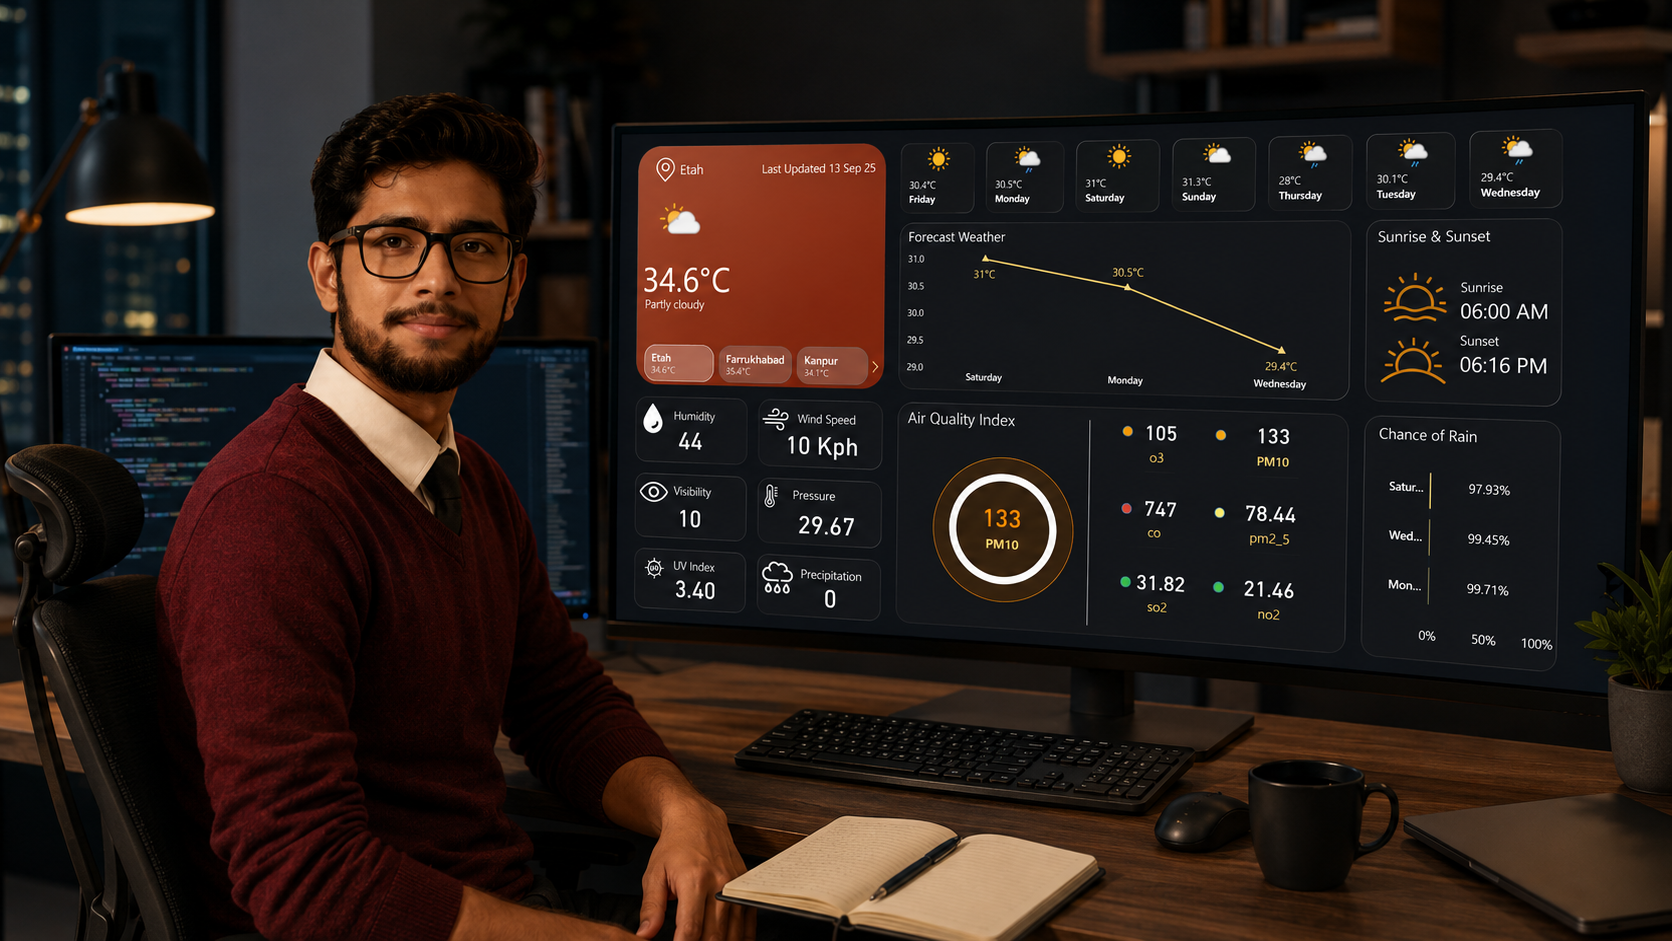
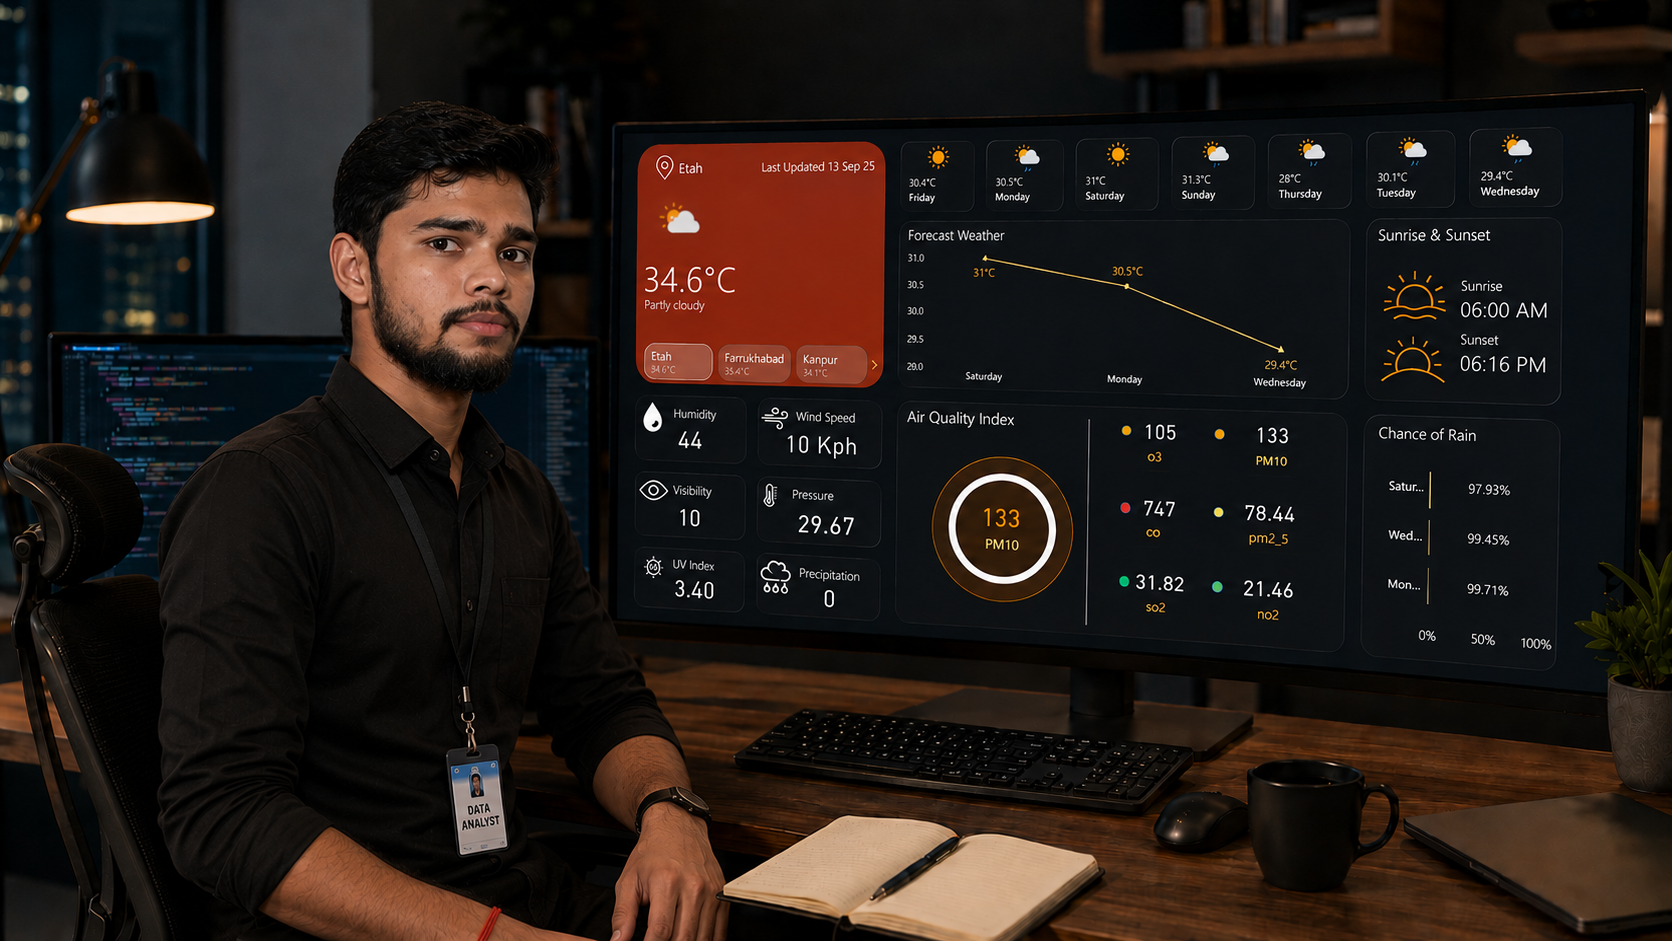
Add: Phone number in contact section

diff --git a/index.html b/index.html
@@ -441,7 +441,14 @@
             send a message and I’ll respond as soon as possible.
           </p>
 
+          
+
           <div class="contact-list">
+
+            <a href="tel:+918953866016">
+            <i class="fa-solid fa-phone"></i>
+            <span>+91 8953866016</span>
+          </a>
             <a href="mailto:ayushrajput8404@gmail.com">
               <i class="fa-solid fa-envelope"></i>
               <span>ayushrajput8404@gmail.com</span>
